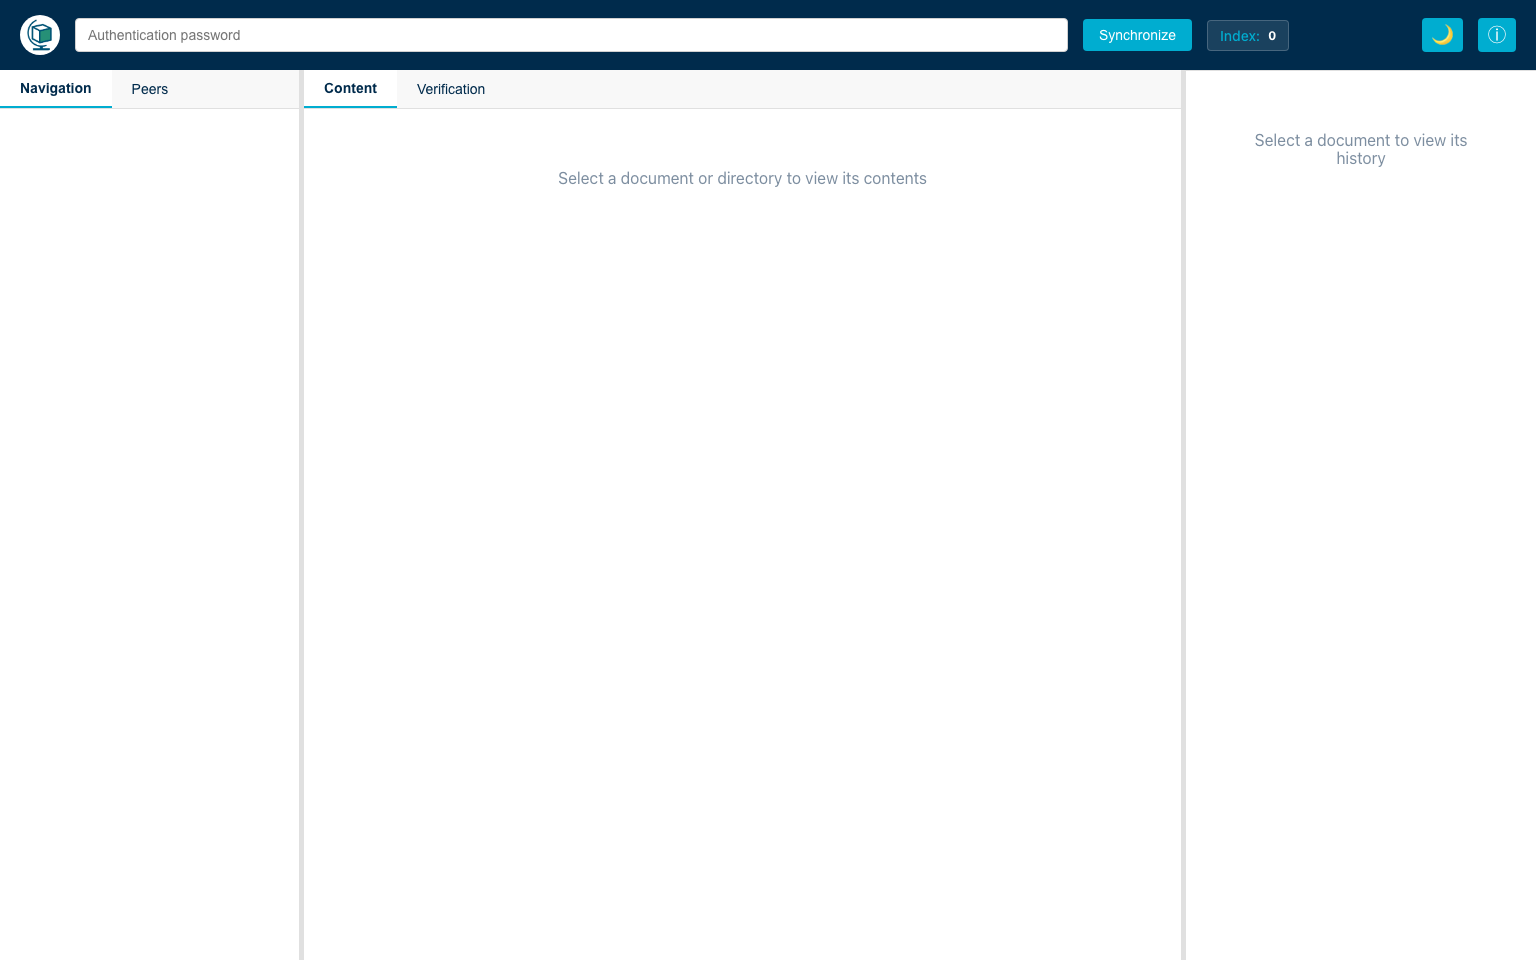
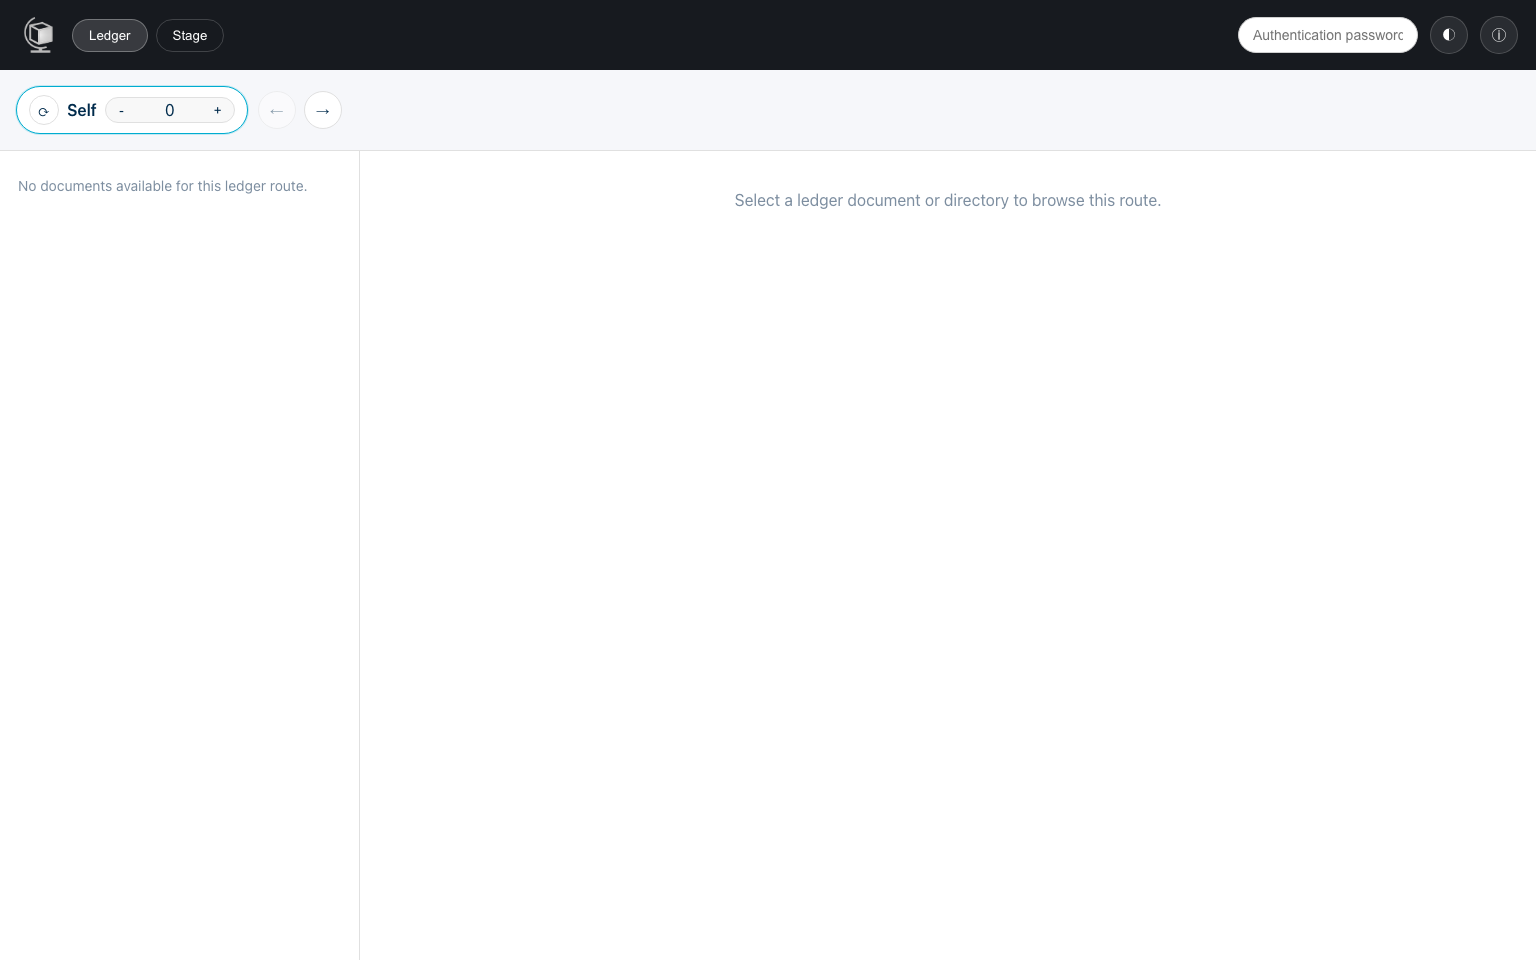
Document compose harness and explorer workflows (#5)

Changed region(s): [[0.0, 0.0, 1.0, 1.0], [0.8125, 0.125, 0.9375, 0.1875]]

diff --git a/info/src/content/docs/development.md b/info/src/content/docs/development.md
@@ -398,6 +398,91 @@ cd /code/sync-analysis/locust
 SECRET=pass locust --host=http://localhost:8192/interface --users=10 --spawn-rate=2 --run-time=60s --headless
 ```
 
+### Multi-Node Compose Testing
+
+Use `sync-analysis/compose/social-agent-network` when you want a local multi-node network with one full `sync-services` stack and one social agent per node, without using FIREWHEEL.
+
+Prerequisites:
+
+You need Docker Engine with the `docker compose` plugin, Python 3, and `PyYAML` available in the environment where you run the generator.
+
+Generate the stack:
+
+```bash
+cd /absolute/path/to/sync-analysis/compose/social-agent-network
+SYNC_SERVICES_GENERAL_COMPOSE=/absolute/path/to/sync-services/compose/general/docker-compose.yml \
+python3 generate.py
+```
+
+Run it:
+
+```bash
+docker compose up
+```
+
+Generator defaults:
+
+- `NODE_COUNT=4`
+- `SECRET=pass`
+- `CONNECTIVITY=2`
+- `PERIOD=2`
+- `WINDOW=1024`
+- `SIZE=32`
+- `ACTIVITY=0`
+- `WORDS=8`
+
+Network model:
+
+- each node gets its own `private-<n>` network
+- all routers and journals join a shared `public` network
+- routers remain the named HTTP boundary between nodes
+- file-system remains the SMB boundary per node
+- social agents live on `public` and talk through routers
+
+Generated topology artifacts:
+
+- `docker-compose.yml`
+- `peers.json`
+- `metrics/social-agent-*/`
+- `results/social-agent-*/benchmark.json`
+- `results/network-benchmark.json` when `aggregate_results.py` is running
+
+`peers.json` uses:
+
+- `nodes`: journal-name to router-host mapping
+- `edges`: deterministic outgoing peer adjacency using the same `random.seed(0)` and bounded-degree sampling as FIREWHEEL
+
+Port allocation:
+
+- router HTTP starts at `8192` and increments by node index
+- SMB uses `445` for node `0`, then `1445`, `1446`, and so on
+
+Metrics output:
+
+- each social agent writes Prometheus textfile metrics into its own host-mounted directory under `metrics/`
+- this preserves the current FIREWHEEL-style agent metric output path for local compose runs without adding a full monitoring stack yet
+
+Benchmark output:
+
+- each social agent also writes a rolling JSON snapshot to `results/social-agent-*/benchmark.json`
+- these files are the simplest place to start for end-to-end throughput benchmarking, especially in serial unpaced mode with `ACTIVITY=0`
+- run `python3 aggregate_results.py` in the harness directory to maintain `results/network-benchmark.json` as a cluster-wide aggregate snapshot
+
+For local testing of an unpublished social-agent image, build a local tag and override it during generation:
+
+```bash
+cd /absolute/path/to/sync-analysis
+docker build -t social-agent:dev -f docker/social-agent/Dockerfile .
+```
+
+```bash
+cd /absolute/path/to/sync-analysis/compose/social-agent-network
+SYNC_SERVICES_GENERAL_COMPOSE=/absolute/path/to/sync-services/compose/general/docker-compose.yml \
+IMAGE_OVERRIDE_SOCIAL_AGENT=social-agent:dev \
+python3 generate.py
+docker compose up
+```
+
 ### Network Emulation
 
 Use `sync-analysis/firewheel` for topology-level distributed simulation across journals, agents, and monitoring components.

diff --git a/README.md b/README.md
@@ -18,7 +18,13 @@ This repository serves as the main entry point and documentation hub for the Syn
   - [Journal SDK](https://github.com/sandialabs/sync-journal): Core executable for deploying a Synchronic Web node ("journal").
   - [Record Logic](https://github.com/sandialabs/sync-records): Lisp/Scheme functions and data structures for configuring journal logic.
   - [Service Deployments](https://github.com/sandialabs/sync-services): Containerized microservices and Docker Compose networks for deploying Synchronic Web applications, including `gateway`, `explorer`, `workbench`, and the SMB-backed `file-system` projection service.
-  - [Experiment Analysis](https://github.com/sandialabs/sync-analysis): Experiments for analyzing performance and robustness of Synchronic Web networks.
+  - [Experiment Analysis](https://github.com/sandialabs/sync-analysis): Experiments for analyzing performance and robustness of Synchronic Web networks, including a local `compose/social-agent-network` generator for multi-node social-agent testing.
+
+## Testing Surfaces
+
+- `sync-services/tests/local-compose.sh smoke` is the quickest single-node service-stack validation path for explorer/workbench/gateway/router/file-system.
+- `sync-analysis/compose/social-agent-network/generate.py` provides a local multi-node test network with one full service cluster and one social agent per node.
+- `sync-web/info/README.md` documents the UI screenshot/testing workflow used when the docs site needs fresh explorer/workbench captures.
 
 
 ---

diff --git a/info/README.md b/info/README.md
@@ -36,6 +36,8 @@ The generated site is available under `dist/`.
 
 Use this when you want to refresh Explorer/Workbench screenshots embedded in docs.
 
+The current Explorer screenshot flow captures the default landing view, which now opens in `Ledger` mode.
+
 Prerequisites:
 
 1. Bring up `sync-services` so `/explorer/` and `/workbench/` are live (default expected URL is `http://127.0.0.1:8192`).
@@ -63,5 +65,24 @@ Optional environment variables:
 - `SYNC_BASE_URL` (default `http://127.0.0.1:8192`)
 - `SYNC_SCREENSHOT_DIR` (default `./public/images/screenshots`)
 - `SYNC_SCREENSHOT_SETTLE_MS` (default `1500`)
-- `SYNC_SERVICES_DIR` (default `/code/sync-services`, used by `capture:screenshots:stack`)
+- `SYNC_SERVICES_DIR` (required for `capture:screenshots:stack`)
 - `PORT`, `SECRET`, `PERIOD`, `WINDOW`, `LOCAL_LISP_PATH` (used by `capture:screenshots:stack`)
+
+Example:
+
+```bash
+SYNC_SERVICES_DIR=/absolute/path/to/sync-services npm run capture:screenshots:stack
+```
+
+## Multi-Node Testing
+
+For local multi-node journal plus social-agent testing, use the compose harness in `sync-analysis`:
+
+```bash
+cd /code/sync-analysis/compose/social-agent-network
+SYNC_SERVICES_GENERAL_COMPOSE=/code/sync-services/compose/general/docker-compose.yml \
+python3 generate.py
+docker compose up
+```
+
+That harness reuses the full `sync-services` general stack per node and is the current local path for testing peer topology behavior without FIREWHEEL.
